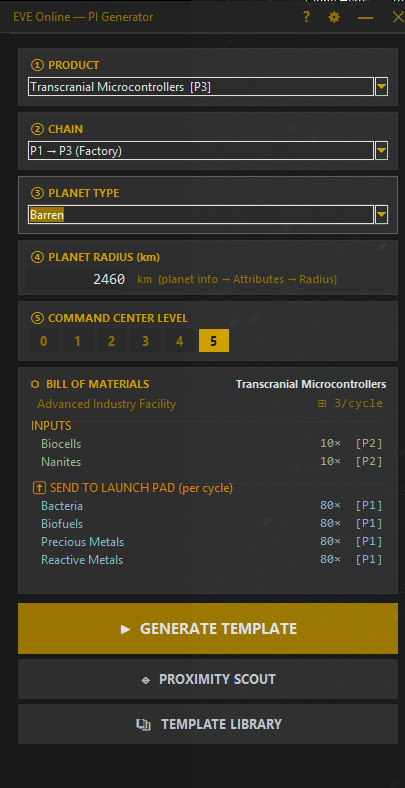
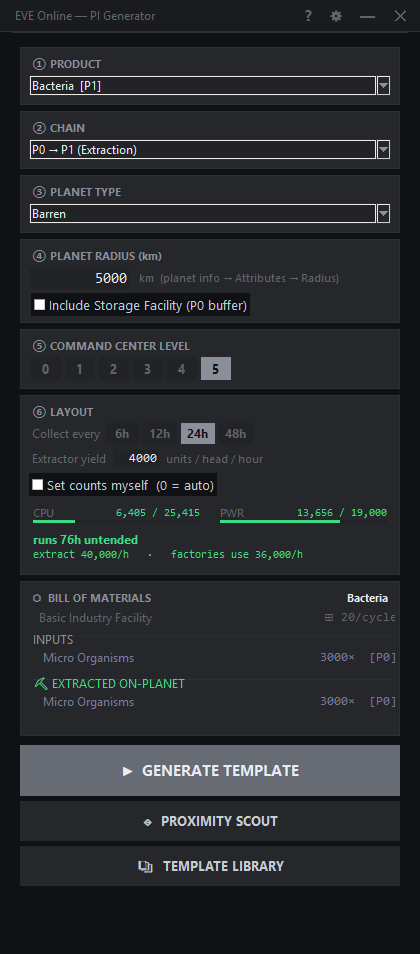
V2.2

diff --git a/src/services/template_service.py b/src/services/template_service.py
@@ -633,8 +633,9 @@ def _gen_extraction_template(product_name, planet_type, cc_level, diameter, opti
 
 # An extractor with fewer heads than this cannot keep even one BIF fed, so the
 # sizing search never trades heads below it for extra factories.
-_MIN_ECU_HEADS = 6
-_MAX_P2_FACTORIES = 4
+# Widest P2 stage this layout can place. High yields can feed more than the
+# power budget allows anyway, so this only ever binds on rich deposits.
+_MAX_P2_FACTORIES = 8
 
 def _gen_p0_to_p2_template(product_name, planet_type, cc_level, diameter, options=None):
     """Génère un template P0→P2 : ECU → BIF (P1) → AIF (P2) sur une seule planète.
@@ -717,12 +718,31 @@ def _gen_p0_to_p2_template(product_name, planet_type, cc_level, diameter, option
         num_aif, num_heads = best
         bif_per_p1 = num_aif
 
+        # Pads have to hold the P2 coming out, the P1 lines hauled in for
+        # whatever this planet cannot mine, and the raw surplus the factories
+        # do not keep up with.
+        flow_m3_h = hourly_rate(recipe["output"], "Advanced Industry Facility") * num_aif \
+            * COMMODITY_SIZE.get(get_tier(product_name), 0)
+        for p1_name, p1_qty in imported:
+            flow_m3_h += (hourly_rate(p1_qty, "Advanced Industry Facility") * num_aif
+                          * COMMODITY_SIZE.get(get_tier(p1_name), 0))
+        surplus = max(0, len(local) * num_heads * opts.yield_per_head
+                      - bif_per_p1 * len(local) * p0_per_bif)
+        flow_m3_h += surplus * COMMODITY_SIZE["P0"]
+        num_lp = _clamp(opts.launch_pads, 1, MAX_LAUNCH_PADS,
+                        default=pads_for_buffer(flow_m3_h, opts.collection_hours))
+
         # ── Pins ─────────────────────────────────────────────────────
         # Launch Pad hub in the middle, AIFs below it, one BIF row per local
         # P1 above it, extractors furthest out.
         pins = []
         pins.append(_make_pin(CENTER_LAT, 0.0, lp_type))
         lp_1b = 1
+        lp_pins = [lp_1b]
+        for i in range(1, num_lp):
+            side = -1 if i % 2 == 1 else 1
+            pins.append(_make_pin(CENTER_LAT - 2 * sp, side * ((i + 1) // 2) * sp, lp_type))
+            lp_pins.append(len(pins))
 
         aif_pins = []
         for i in range(num_aif):
@@ -756,6 +776,8 @@ def _gen_p0_to_p2_template(product_name, planet_type, cc_level, diameter, option
         # The LP is both the P0/P1 buffer and the export pad, so every route
         # below is a single hop and the topology stays trivially valid.
         links = []
+        for extra_lp in lp_pins[1:]:
+            links.append({"D": lp_1b, "Lv": 0, "S": extra_lp})
         for pin in aif_pins:
             links.append({"D": lp_1b, "Lv": 0, "S": pin})
         for chain in bif_pins.values():
@@ -783,13 +805,15 @@ def _gen_p0_to_p2_template(product_name, planet_type, cc_level, diameter, option
                     routes.append({"P": path, "Q": RECIPES_P0_P1[p1_name]["output"],
                                    "T": NAME_TO_ID[p1_name]})
 
-        # LP → AIFs for every P1 (locally made or hauled in), AIFs → LP (P2)
-        for aif_pin in aif_pins:
+        # LP → AIFs for every P1 (locally made or hauled in), AIFs → LP (P2),
+        # output spread across the pads so the buffer is usable.
+        for idx, aif_pin in enumerate(aif_pins):
             path = _bfs_path(links, lp_1b, aif_pin, num_pins)
             if path:
                 for p1_name, p1_qty in recipe["input"]:
                     routes.append({"P": list(path), "Q": p1_qty, "T": NAME_TO_ID[p1_name]})
-            path = _bfs_path(links, aif_pin, lp_1b, num_pins)
+            dest_lp = lp_pins[idx % len(lp_pins)]
+            path = _bfs_path(links, aif_pin, dest_lp, num_pins)
             if path:
                 routes.append({"P": path, "Q": recipe["output"],
                                "T": NAME_TO_ID[product_name]})

diff --git a/PI.py b/PI.py
@@ -1651,10 +1651,17 @@ class PIGeneratorApp:
         y += 26
 
         # One fact per line — at 420px wide anything else collides.
+        # Always name the target: without it, a colony that already outlasts
+        # the interval looks like the setting is being ignored.
         runs = a["buffer_hours"]
-        runs_txt = ("no output to store" if runs == float("inf")
-                    else f"runs {runs:.0f}h untended")
-        ok = runs >= self.interval_var.get()
+        target = self.interval_var.get()
+        ok = runs >= target
+        if runs == float("inf"):
+            runs_txt = "nothing accumulates — collect whenever"
+        elif ok:
+            runs_txt = f"runs {runs:.0f}h untended  ({target}h asked, already covered)"
+        else:
+            runs_txt = f"runs {runs:.0f}h untended  ({target}h asked)"
         c.create_text(8, y, anchor=tk.NW, text=runs_txt,
                       fill=EVE["green"] if ok else EVE["orange"],
                       font=("Segoe UI", 9, "bold"))

diff --git a/README.md b/README.md
@@ -30,7 +30,11 @@ colony those imply:
 - **Collection interval** (6 / 12 / 24 / 48 hours). Launch pads hold 10,000 m³
   each and must cover both the inputs waiting to be consumed and the outputs
   piling up. The generator adds pads, then drops factories, until the colony
-  survives the interval unattended.
+  survives the interval unattended. It is a floor, not a target: a colony that
+  already lasts longer is left alone, which is why the setting visibly reshapes
+  a P3→P4 planet (16 facilities on 2 pads at 6h, 4 on 4 pads at 48h) and does
+  nothing at all on an extraction planet, where one pad already holds days of
+  compact P1 output.
 
 Anything you set by hand is placed as asked and validated rather than overruled —
 `analyze_template()` reports CPU, power, material balance and buffer hours for